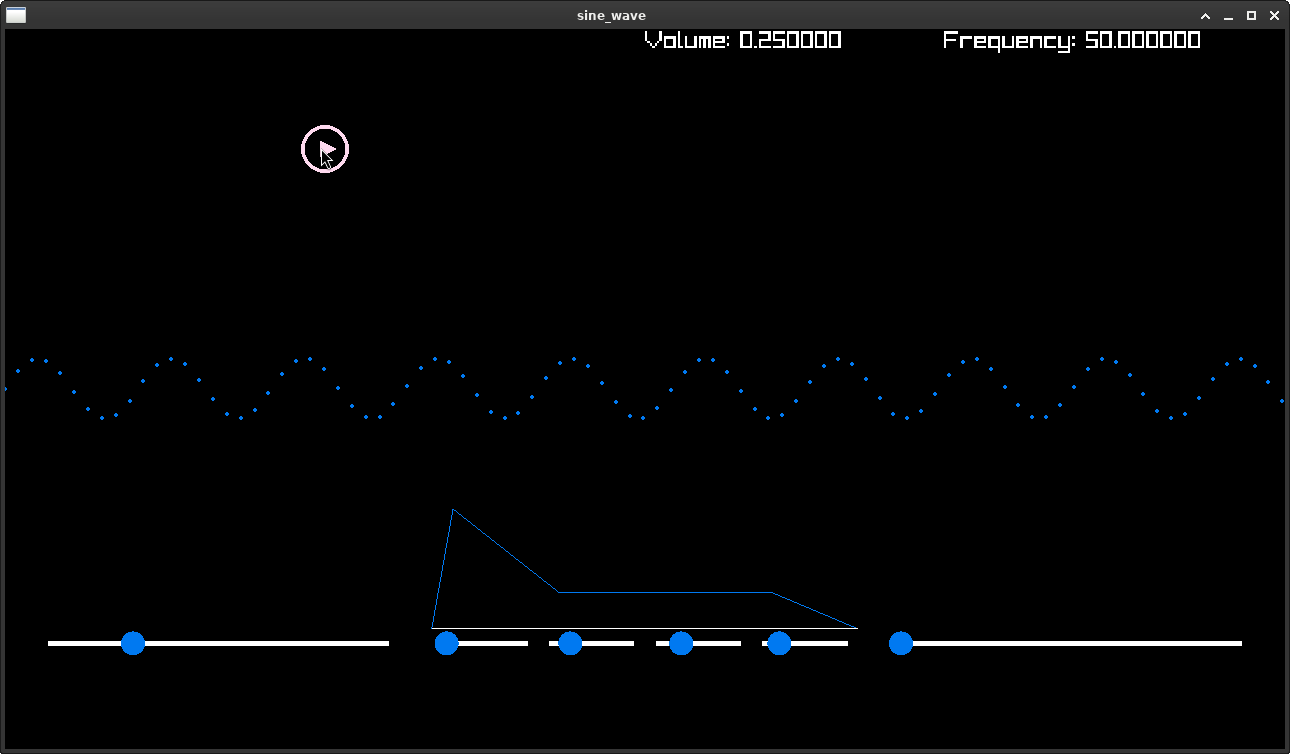
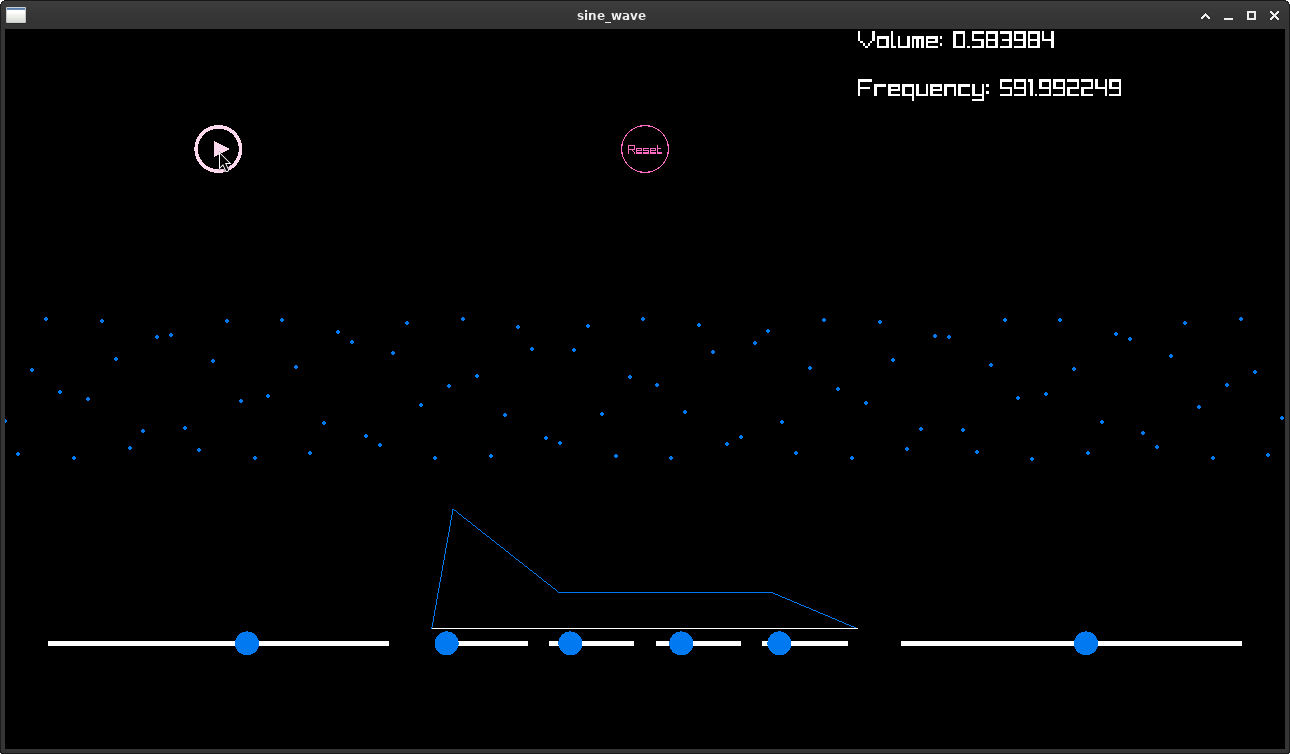
Fix wrong positions of buttons

diff --git a/src/ui_stuff.c b/src/ui_stuff.c
@@ -121,7 +121,7 @@ void slider_widget(Ui_Rect r, SliderState *slider_state) {
 
 void start_button_widget(Ui_Rect r, Color c, bool *is_pressed)
 {
-  Vector2 button_position = {r.w/2, r.h/2};
+  Vector2 button_position = {r.x + r.w/2, r.y + r.h/2};
   float button_radius = r.h * 0.1f;
   *is_pressed = false;
   if (IsMouseButtonDown(MOUSE_BUTTON_LEFT)) {
@@ -142,7 +142,7 @@ void start_button_widget(Ui_Rect r, Color c, bool *is_pressed)
 
 void reset_button_widget(Ui_Rect r, Color c, bool *is_pressed)
 {
-  Vector2 button_position = {r.w/2, r.h/2};
+  Vector2 button_position = {r.x + r.w/2, r.y + r.h/2};
   float button_radius = r.h * 0.1f;
   *is_pressed = false;
   if (IsMouseButtonDown(MOUSE_BUTTON_LEFT)) {
@@ -215,6 +215,8 @@ void adsr_widget(Ui_Rect rect, ADSR *adsr)
 void text_widget(Ui_Rect r, Text *text)
 {
   char buffer[256];
-  snprintf(buffer, sizeof(buffer), "Volume: %f           Frequency: %f", text->vol, text->freq);
+  snprintf(buffer, sizeof(buffer), "Volume: %f", text->vol);
   DrawText(buffer, r.x, r.y, r.h*0.1, WHITE);
+  snprintf(buffer, sizeof(buffer), "Frequency: %f", text->freq);
+  DrawText(buffer, r.x, r.y + r.h/5, r.h*0.1, WHITE);
 }

diff --git a/src/sine_wave.c b/src/sine_wave.c
@@ -77,9 +77,9 @@ int main(void) {
       ClearBackground(BLACK);
 
       layout_stack_push(&ls, LO_VERT, ui_rect(0, 0, w, h), 3, 0);
-      layout_stack_push(&ls, LO_HORZ, layout_stack_slot(&ls), 2, 0);
+      layout_stack_push(&ls, LO_HORZ, layout_stack_slot(&ls), 3, 0);
+      start_button_widget(layout_stack_slot(&ls), PINK, &is_play_pressed);
       reset_button_widget(layout_stack_slot(&ls), PINK, &is_reset_pressed);
-      // start_button_widget(layout_stack_slot(&ls), PINK, &is_play_pressed);
       text_widget(layout_stack_slot(&ls), &text);
       layout_stack_pop(&ls);
       signal_widget(layout_stack_slot(&ls), &ray_out_buffer, BLUE);
